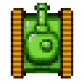
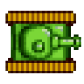
Modular tank file, tank movement rework

diff --git a/public/client.js b/public/client.js
@@ -14,7 +14,6 @@ const SPRITE_HEIGHT = 84;
 const TARGET_FPS = 60;
 var ARENA_WIDTH;
 var ARENA_HEIGHT;
-var DIAG_SPEED_FACTOR = Math.sqrt(2)/2;
 
 /* ARCHITECTURE LEVEL VARS */
 var socket = io(); //Client socket for server communication
@@ -26,21 +25,38 @@ var bgCtx; //ctx for bgCanvas
 /* IMAGE VARS */
 var dirtImage = new Image();
 dirtImage.src = 'public/img/dirt.png';
-var tankImage = [new Image(),new Image(),new Image(),new Image(),new Image(),new Image(),new Image(),new Image()];
-tankImage.forEach(function(item, index, array){
-	item.src = 'public/img/tank/' + (index+1) + '.png';
-	console.log(item.src)
-});
 
 /* GAME VARS */
 var gameInterval;
-var playerTank = new Tank(0,0,0,2);
+var playerTank = new Tank(0,400,400,2,true);
 
 var tanks = [ playerTank,
 	new Tank(1,1000,100,2),
 	new Tank(2,500,150,2),
 	new Tank(3,200,200,2)
 ];
+
+/* Keep Track of Keys Pressed */
+var Keys = {
+	_pressed: {},
+
+	UP: 87,   // W
+	LEFT: 65, // A
+	DOWN: 83, // S
+	RIGHT: 68,// D
+  
+	isDown: function(keyCode) {
+		return this._pressed[keyCode];
+	},
+  
+	onKeydown: function(event) {
+		this._pressed[event.keyCode] = true;
+	},
+  
+	onKeyup: function(event) {
+		delete this._pressed[event.keyCode];
+	}
+}
 
 /* Document is Ready */
 $(function() { 
@@ -50,6 +66,10 @@ $(function() {
 	ctx = gameCanvas.getContext('2d');
 	bgCanvas = $("#bg-layer").get(0);
 	bgCtx = bgCanvas.getContext('2d');
+
+	/* Hook Key Presses */
+	gameCanvas.addEventListener('keyup', function(event) { Keys.onKeyup(event); }, false);
+	gameCanvas.addEventListener('keydown', function(event) { Keys.onKeydown(event); }, false);
 
 	renderBG();
 	ctx.font = '24px serif';
@@ -86,80 +106,19 @@ function gameLoop(){
 function render(){
 	if (!ctx) //game ctx not yet retrieved
 		return;
+
+	/* Clear Drawing Area */
 	ctx.clearRect(0,0,ARENA_WIDTH,ARENA_HEIGHT);
 	
 	/* Draw All Tanks In Game*/
-	
-	tanks.forEach(function(tank, index, array) {
-		ctx.drawImage(tankImage[tank.animPos], tank.x, tank.y);
-		ctx.fillText('Player ' + tank.id, tank.x, tank.y-10);
-	});
+	for (var tank in tanks){
+		tanks[tank].render(ctx);
+	}
 }
 
 /* Update Local Game State */
 function update(){
-	/* Handle Tank Movement */
-	var speed = playerTank.speed;
-	if ((Keys.isDown(Keys.UP) || Keys.isDown(Keys.DOWN)) && 
-		(Keys.isDown(Keys.LEFT) || Keys.isDown(Keys.RIGHT))){
-		speed *= DIAG_SPEED_FACTOR; //Ensure Diag movement doesn't increase speed
-	}
-
-	if (Keys.isDown(Keys.UP)) { 
-		playerTank.y-= speed; 
-		if(playerTank.animPos < 7 )
-			playerTank.animPos += 1;
-		else
-			playerTank.animPos = 0;
-	}
-	if (Keys.isDown(Keys.DOWN)){ 
-		playerTank.y+= speed; 
-		if(playerTank.animPos >= 1 )
-			playerTank.animPos -= 1;
-		else
-			playerTank.animPos = 7;
-	}
-	
-	if (Keys.isDown(Keys.LEFT)) playerTank.x-= speed;
-	if (Keys.isDown(Keys.RIGHT)) playerTank.x+= speed;
-}
-
-/* Tank Constructor */
-function Tank(id, x, y, speed){
-	this.id = id; //unique id TO-DO: avoid id collision
-	this.x = x;
-	this.y = y;
-	this.speed = (speed < 0 ? 0 : speed); //assure positive integer. this is in terms of px * FPS per now.
-	this.animPos = 0; //Animation position
-}
-
-Tank.prototype.move = function(x,y){
-	this.x = x;
-	this.y = y;
-}
-
-/* Keep Track of Keys Pressed */
-var Keys = {
-	_pressed: {},
-
-	UP: 87,   // W
-	LEFT: 65, // A
-	DOWN: 83, // S
-	RIGHT: 68,// D
-  
-	isDown: function(keyCode) {
-		return this._pressed[keyCode];
-	},
-  
-	onKeydown: function(event) {
-		this._pressed[event.keyCode] = true;
-	},
-  
-	onKeyup: function(event) {
-		delete this._pressed[event.keyCode];
+	for (var tank in tanks){
+		tanks[tank].update(Keys);
 	}
 }
-
-/* Hook Key Presses */
-window.addEventListener('keyup', function(event) { Keys.onKeyup(event); }, false);
-window.addEventListener('keydown', function(event) { Keys.onKeydown(event); }, false);

diff --git a/public/index.html b/public/index.html
@@ -9,6 +9,7 @@
 
 		<script src="https://ajax.googleapis.com/ajax/libs/jquery/3.1.0/jquery.min.js"></script>
 		<script src="https://cdn.socket.io/socket.io-1.4.5.js"></script>
+		<script src="public/tank.js"></script>
 		<script src="public/client.js"></script>
 
 		<div id = "front-page">
@@ -26,7 +27,7 @@
 		</div>
 
 		<div id = "canvas-div">
-			<canvas id="game-layer" width="1344" height="756"></canvas>
+			<canvas id="game-layer" width="1344" height="756" tabindex='1'></canvas>
 			<canvas id="bg-layer" width="1344" height="756"></canvas>
 		</div>
 
